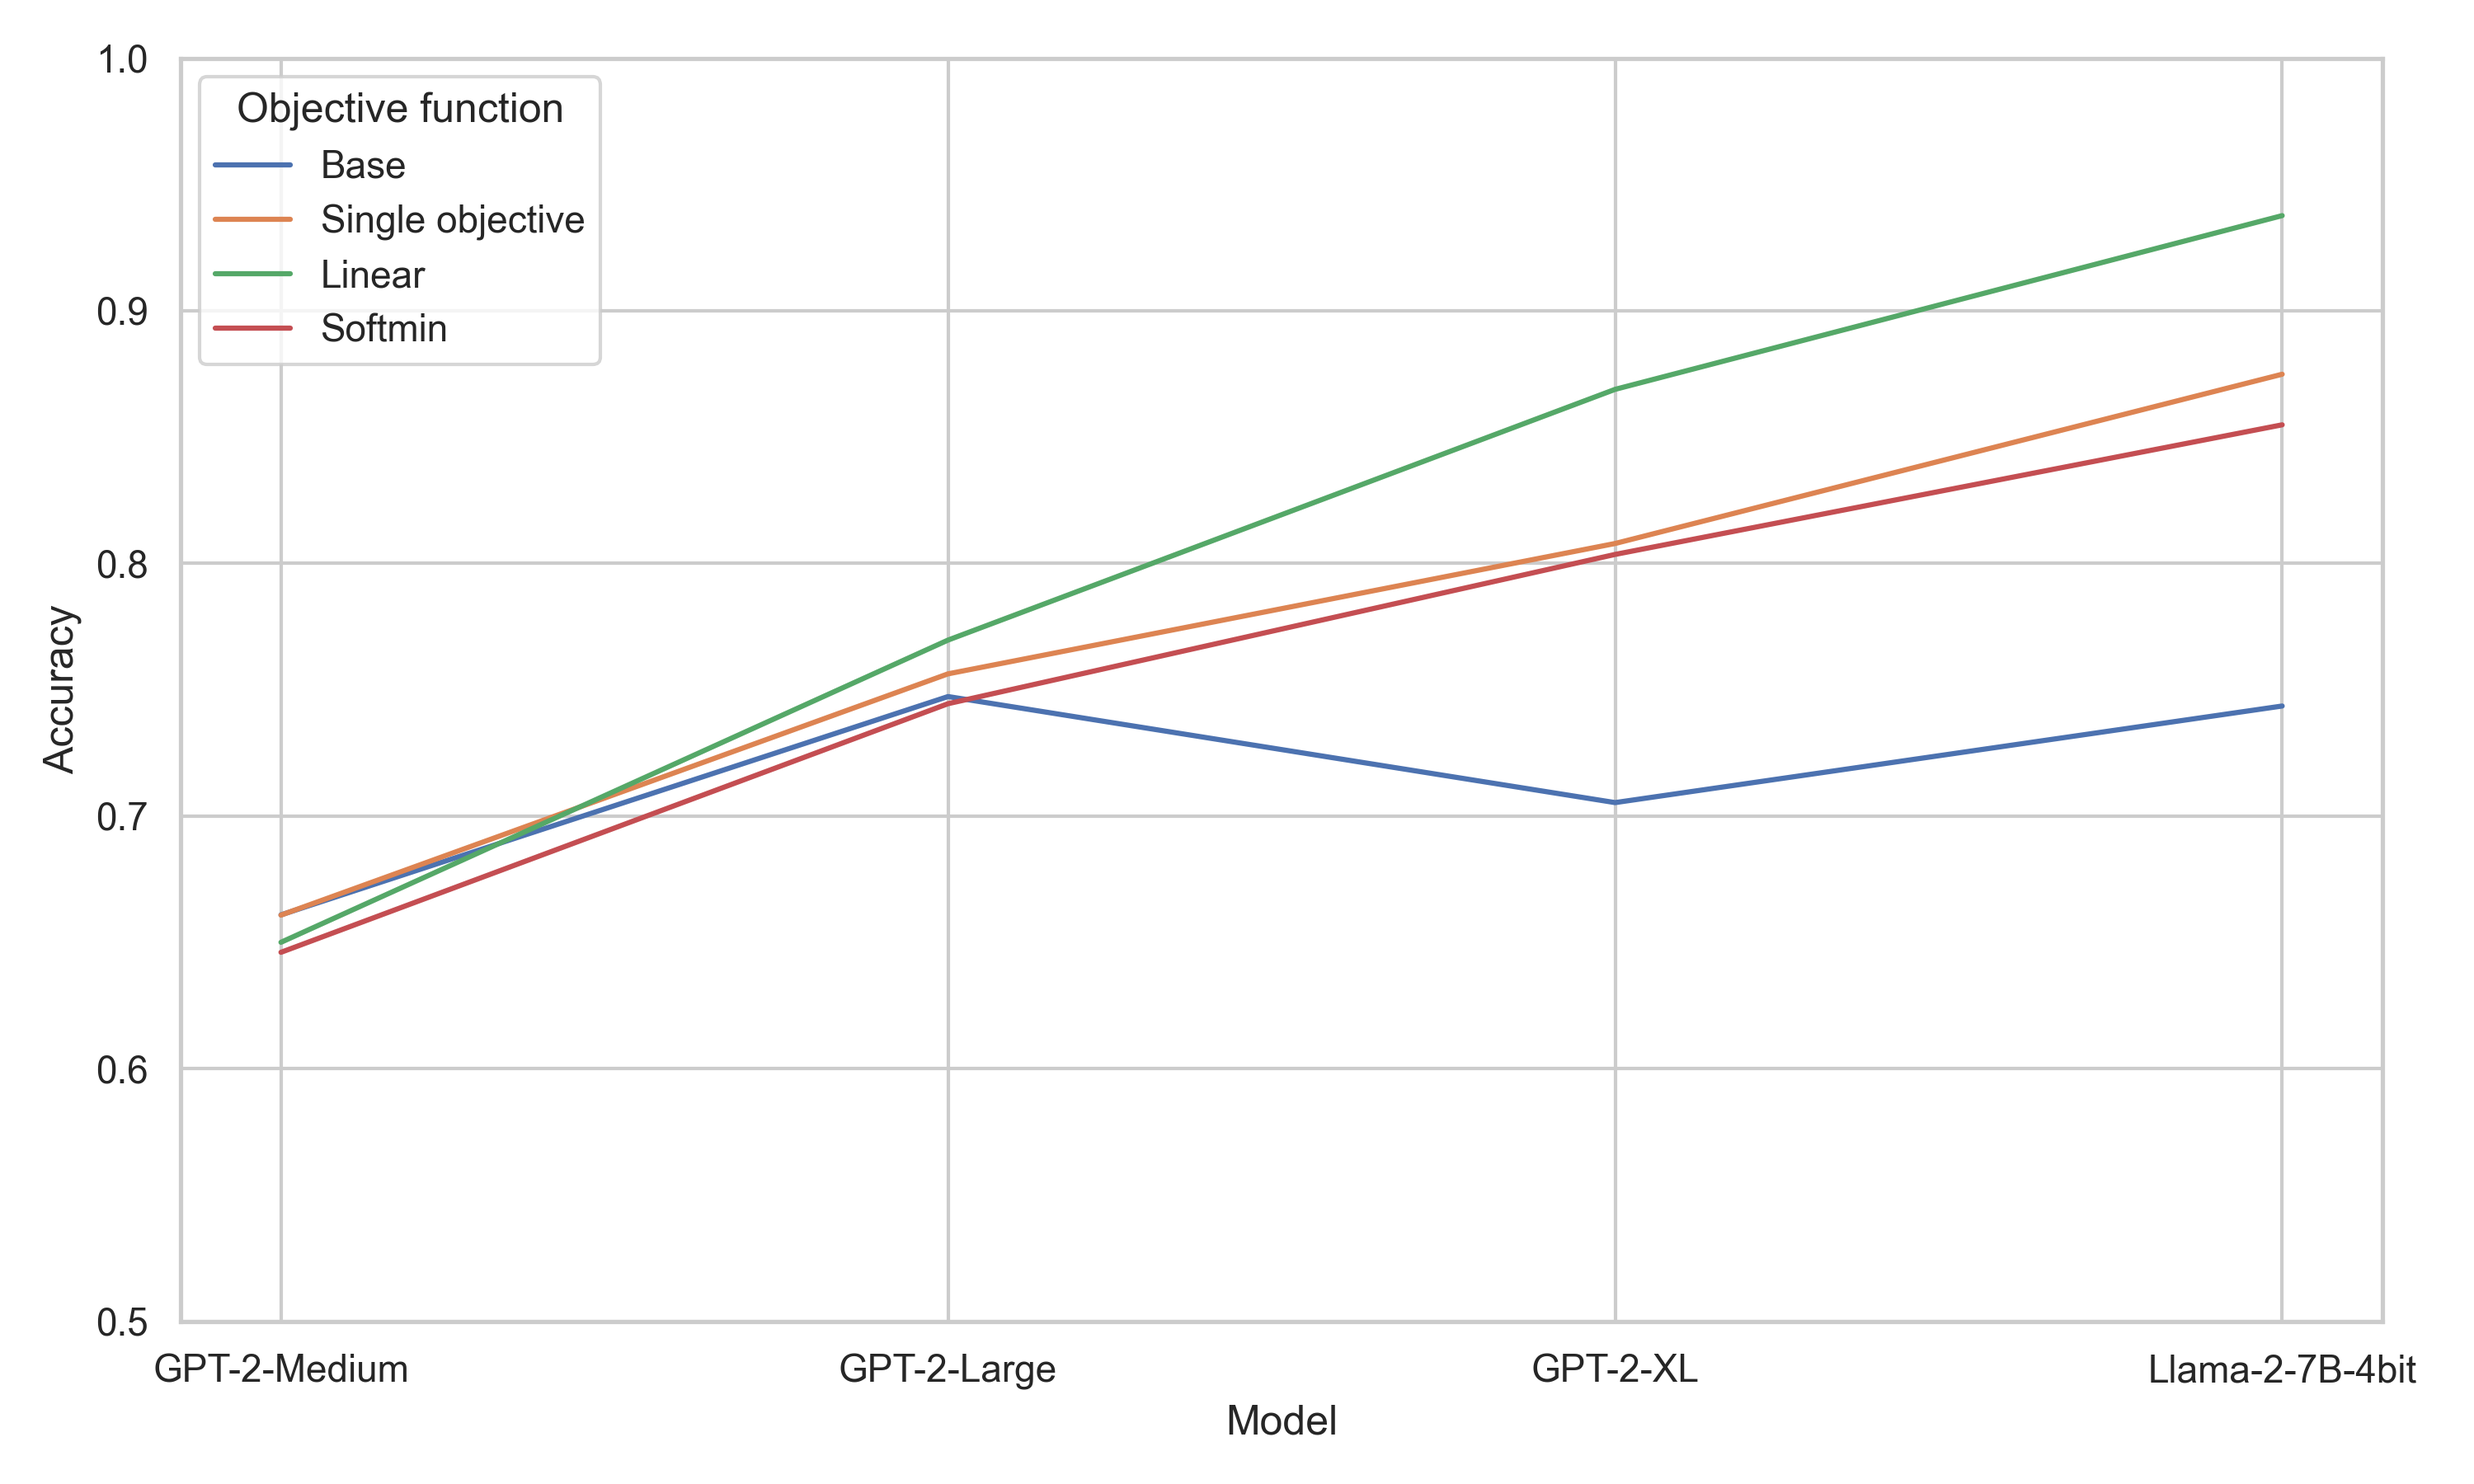
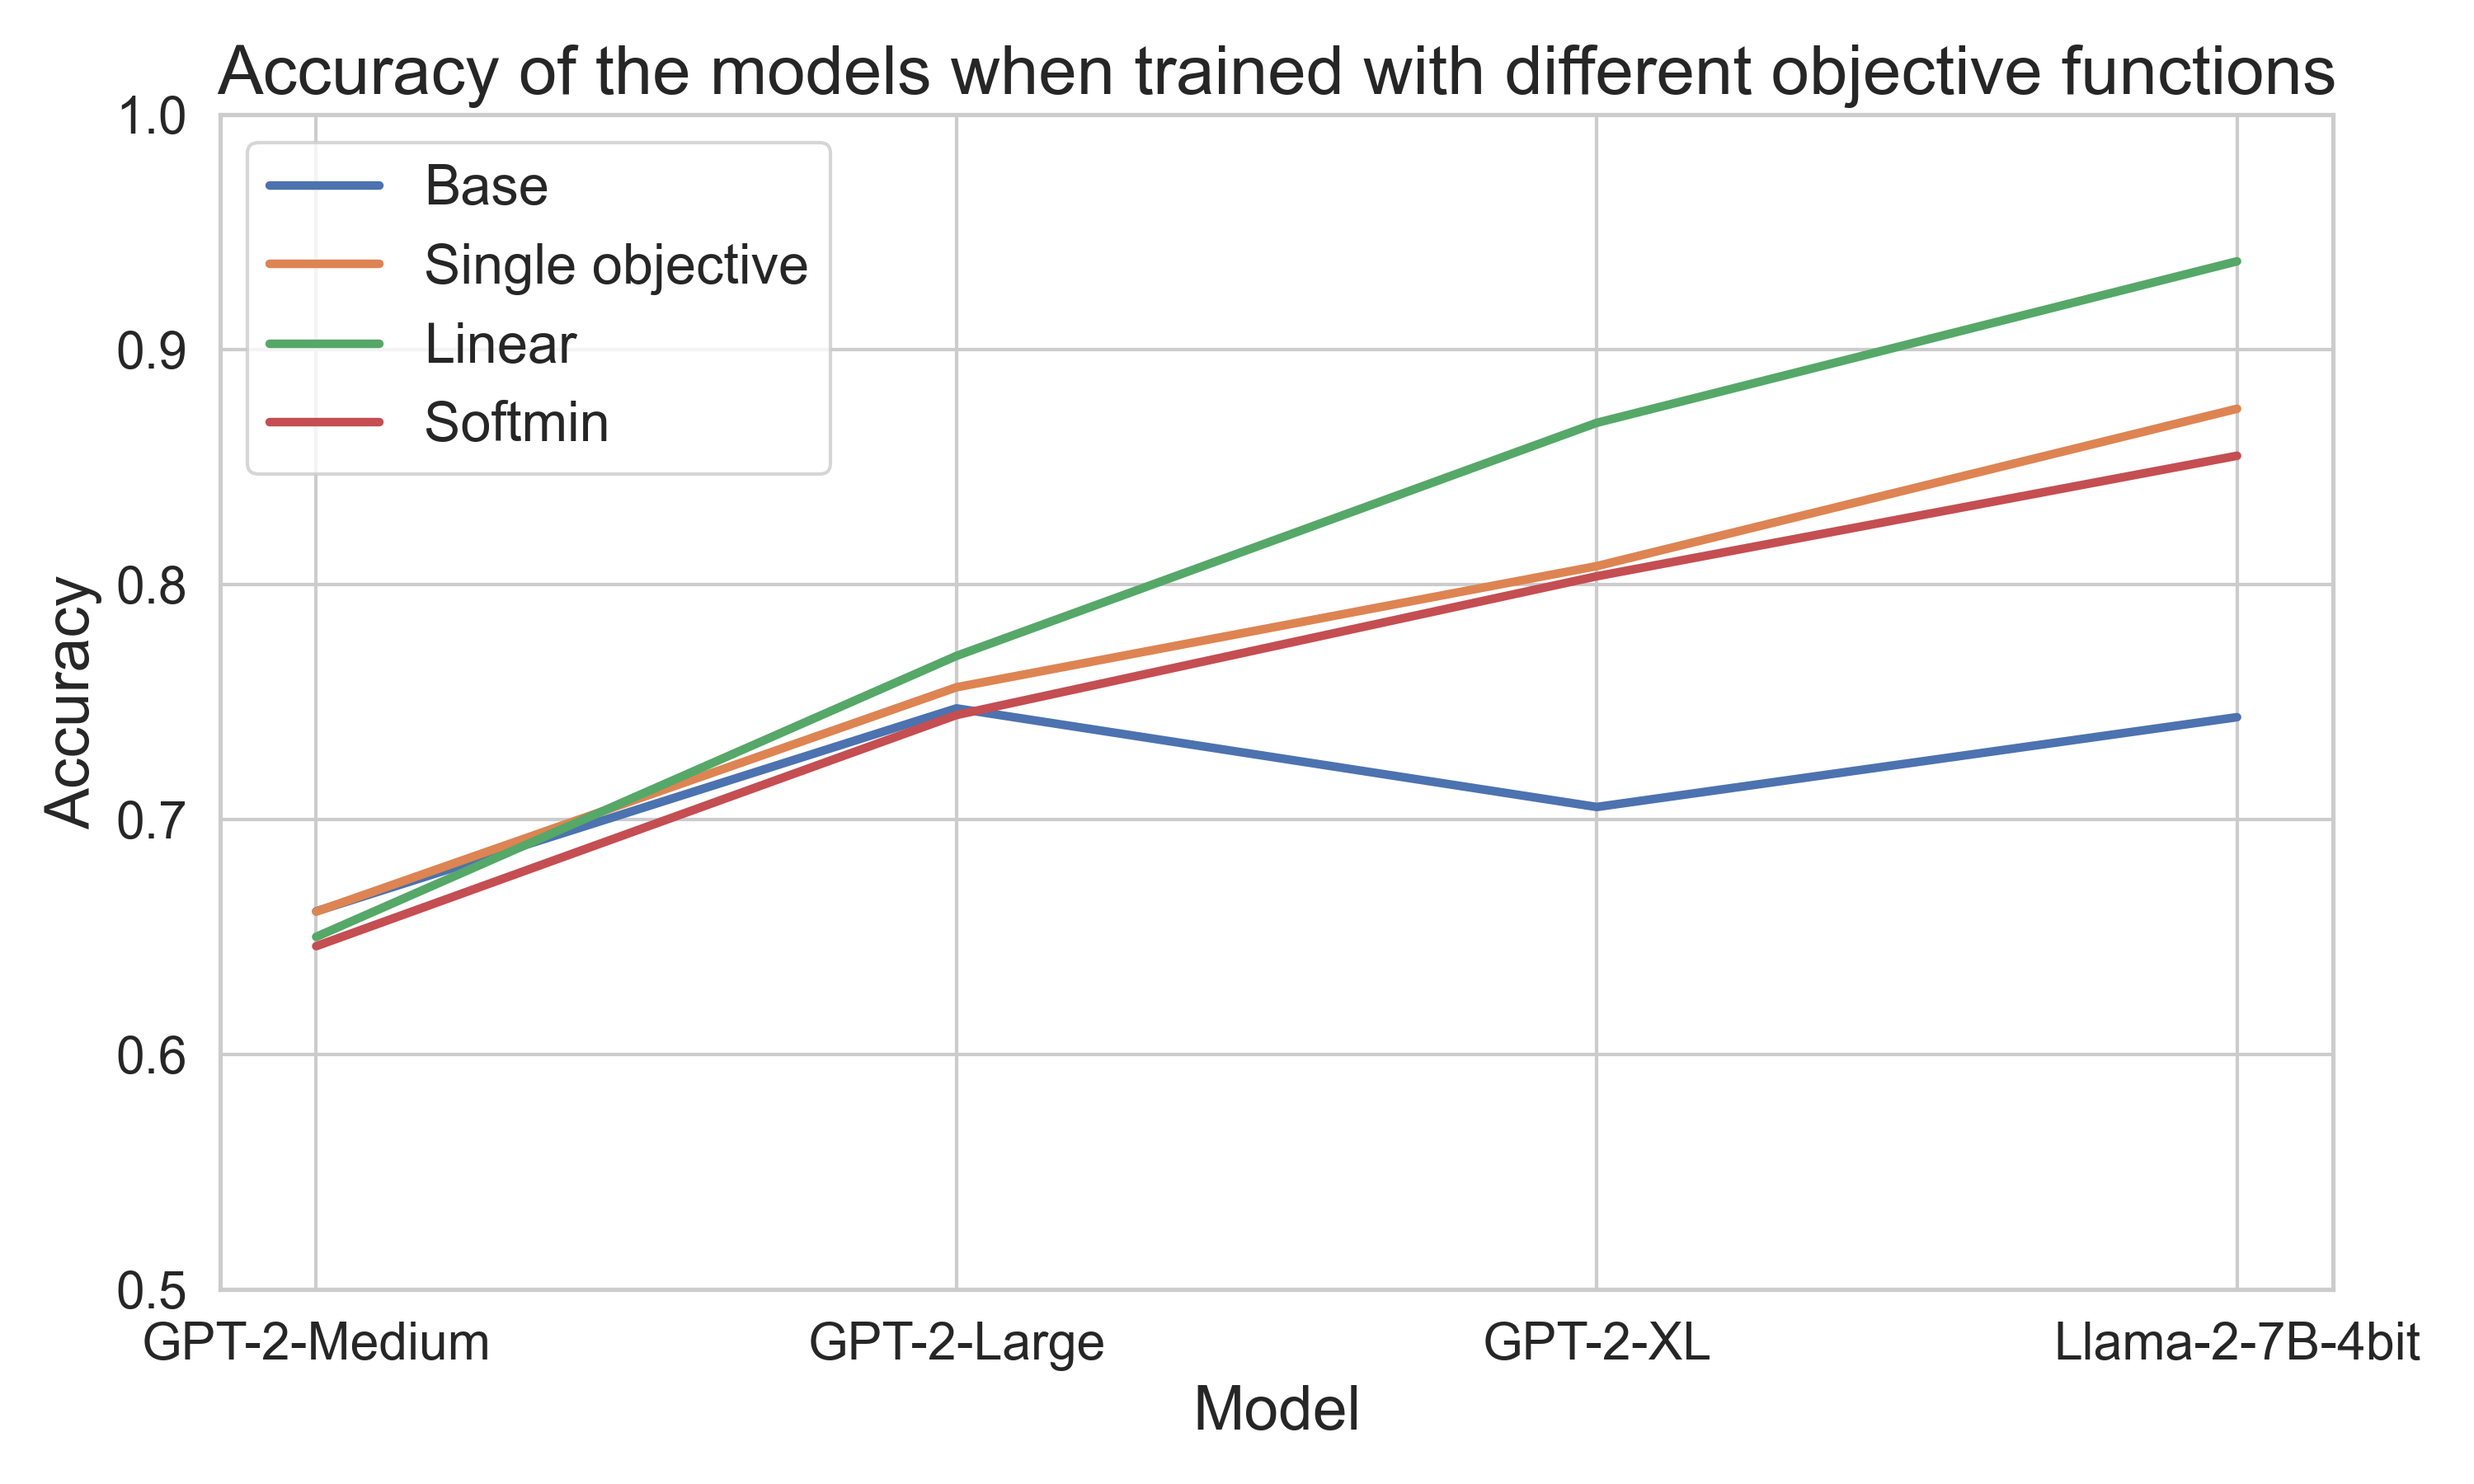
made text bigger

diff --git a/plot_results.py b/plot_results.py
@@ -2,6 +2,7 @@ import matplotlib.pyplot as plt
 import json
 import pandas as pd
 import seaborn as sns
+
 # Read the JSONL file
 results = []
 with open('accuracy_results.jsonl', 'r') as file:
@@ -12,11 +13,16 @@ df = pd.DataFrame(results)
 sns.set(style="whitegrid")
 
 plt.figure(figsize=(10, 6))
-ax = sns.lineplot(x="model", y="accuracy", hue="Objective function", data=df)
-ax.set_ylim(0.5, 1)  # Set y-axis range from 0.5 to 1
-plt.xlabel("Model")
-plt.ylabel("Accuracy")
+ax = sns.lineplot(x="model", y="accuracy", hue="Objective function", data=df, linewidth=2.5)
+ax.set_ylim(0.5, 1) 
+plt.title("Accuracy of the models when trained with different objective functions", fontsize=20)
+plt.xlabel("Model", fontsize=18)  
+plt.ylabel("Accuracy", fontsize=18)  
+plt.xticks(fontsize=15)  
+plt.yticks(fontsize=15)  
 plt.tight_layout() 
+
+ax.legend(fontsize=16)
+
 plt.savefig('results.png', dpi=300)
 plt.show()
-
